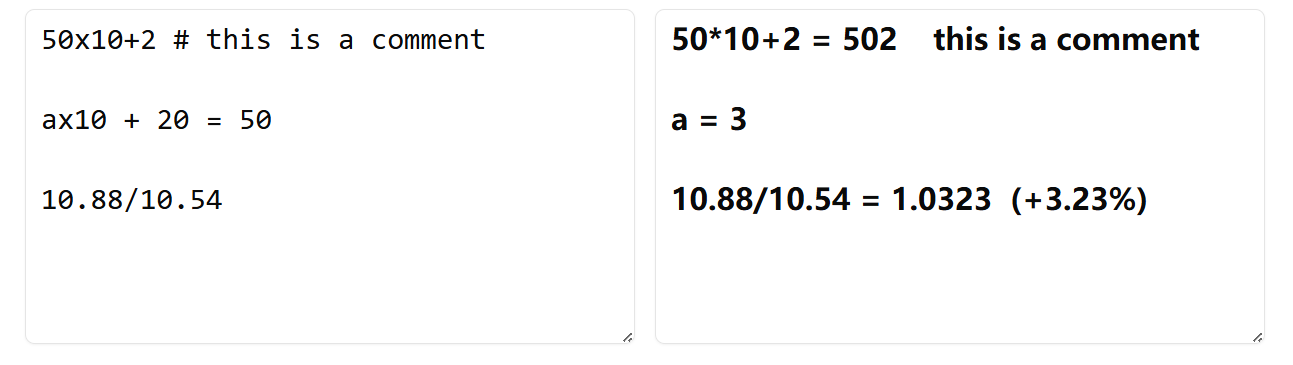
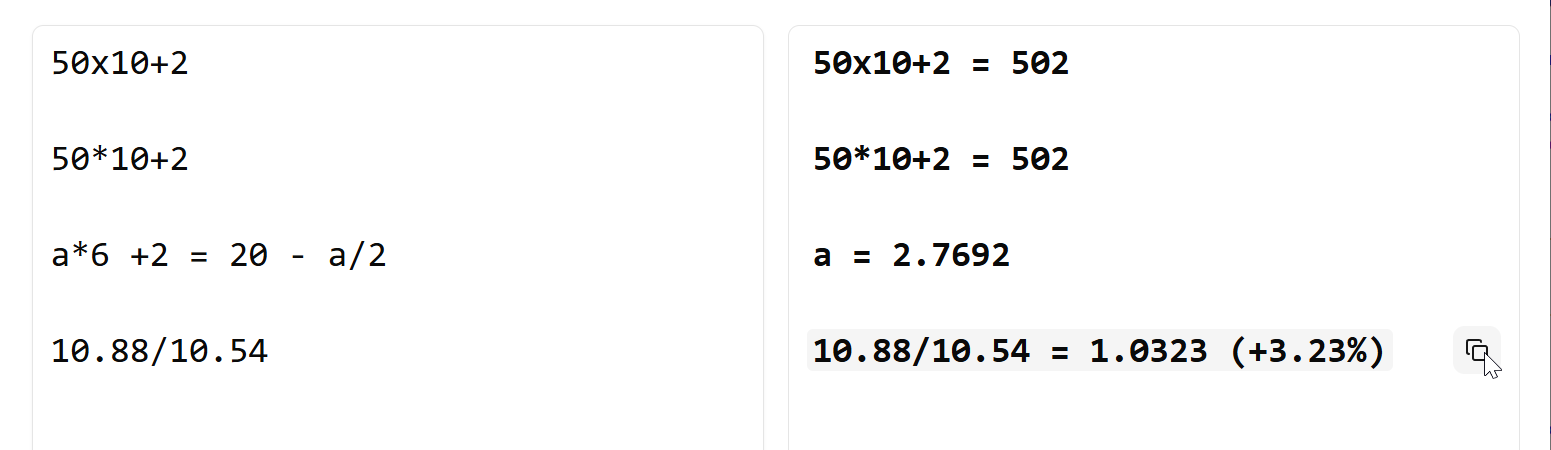
one click copy

diff --git a/src/components/TextCalcApp.tsx b/src/components/TextCalcApp.tsx
@@ -1,29 +1,39 @@
 import { evaluate, format, MathType } from 'mathjs';
 import { Textarea } from "@/components/ui/textarea";
 import { useState } from 'react';
-import { Configs } from '@/Conf';
-
-
+import { Configs } from '@/conf';
+import { Button } from '@/components/ui/button';
+import { Copy, Check } from 'lucide-react';
 
 export function TextCalcApp() {
-    // Initialize state with data from localStorage, or default values
-    const [lines, setLines] = useState<{ input: string; result: string }>(() => {
+    const [lines, setLines] = useState<{ input: string; result: string[] }>(() => {
         const savedInput = localStorage.getItem('calcInput') || '';
         return {
             input: savedInput,
-            result: savedInput ? calculateResults(savedInput) : '' // Calculate only if needed
+            result: savedInput ? calculateResults(savedInput) : []
         };
     });
+    const [copiedLineIndex, setCopiedLineIndex] = useState<number | null>(null);
+    // --- 用于追踪鼠标悬停的行 ---
+    const [hoveredLineIndex, setHoveredLineIndex] = useState<number | null>(null);
 
-
-
-    // Function to calculate results and update state
     const handleInputChange = (value: string) => {
-        const resText = calculateResults(value)
-        setLines({ input: value, result: resText });
+        const resArray = calculateResults(value)
+        setLines({ input: value, result: resArray });
         localStorage.setItem('calcInput', value);
     };
-
+    const handleCopy = (textToCopy: string, index: number) => {
+        if (!textToCopy.trim()) return;
+        const resultPart = textToCopy
+        navigator.clipboard.writeText(resultPart).then(() => {
+            setCopiedLineIndex(index);
+            setTimeout(() => {
+                setCopiedLineIndex(null);
+            }, 2000);
+        }).catch(err => {
+            console.error('无法复制文本: ', err);
+        });
+    };
     return (
         <div className="container mx-auto p-4 grid grid-cols-2 gap-4 ">
             <div className="flex flex-col space-y-2 ">
@@ -31,19 +41,85 @@ export function TextCalcApp() {
                     value={lines.input}
                     onChange={(e) => handleInputChange(e.target.value)}
                     placeholder={Configs.DefaultTxt}
-                    className="w-full min-h-[calc(90vh-1rem)] md:text-2xl font-mono"
+                    // 对齐修正 "leading-8" 与右侧 h-8 对应，确保每行高度一致
+                    className="w-full min-h-[calc(90vh-1rem)] md:text-2xl font-mono leading-8"
                 />
             </div>
+            
             <div className="flex flex-col space-y-2">
-                <Textarea
-                    value={lines.result}
-                    readOnly
-                    className="w-full min-h-[calc(90vh-1rem)]  font-bold  md:text-2xl"
-                />
+                {/* 对齐修正 使用与Textarea相同的 px-3 py-2, 并继承字体和行高样式 */}
+                <div className="w-full min-h-[calc(90vh-1rem)] font-bold md:text-2xl font-mono leading-8 px-3 py-2 border bg-background rounded-md overflow-y-auto">
+                    {lines.result.map((line, index) => (
+                        // 对齐修正 `h-8` 确保此容器高度与 `leading-8` 的行高完全匹配
+                        <div
+                            key={index}
+                            className="group flex justify-between items-center h-8" 
+                        >
+                            {/* 使用 <pre> 保留空格，font-bold 让结果突出 */}
+                            <pre className="font-bold">
+                                {/* --- 使用 span 包裹文本，并根据悬停状态动态应用样式 --- */}
+                                <span className={`transition-colors duration-150 rounded px-1 ${
+                                    hoveredLineIndex === index ? 'bg-muted' : 'bg-transparent'
+                                }`}>
+                                    {/* --- 对齐修正: 处理空行 --- */}
+                                    {/* 如果行为空，渲染一个空格，使其占据一行的高度 */}
+                                    {line || <>&nbsp;</>}
+                                </span>
+                            </pre>
+                            {line.trim() && (
+                                <Button
+                                    variant="ghost"
+                                    size="icon"
+                                    className="h-8 w-8 text-muted-foreground opacity-0 group-hover:opacity-100 transition-opacity"
+                                    onClick={() => handleCopy(line, index)}
+                                    // --- 鼠标进入和离开事件，用于更新悬停状态 ---
+                                    onMouseEnter={() => setHoveredLineIndex(index)}
+                                    onMouseLeave={() => setHoveredLineIndex(null)}
+                                >
+                                    {copiedLineIndex === index ? (
+                                        <Check className="h-4 w-4 text-green-500" />
+                                    ) : (
+                                        <Copy className="h-4 w-4" />
+                                    )}
+                                    <span className="sr-only">复制此行</span>
+                                </Button>
+                            )}
+                        </div>
+                    ))}
+                </div>
             </div>
         </div>
     );
 }
+
+// --- 5. 修改计算函数: 返回 string[] 而不是 string ---
+const calculateResults = (value: string): string[] => { // <-- 返回类型改为 string[]
+
+    const inputLines = value.split('\n');
+    const resultLines = [];
+    for (const line of inputLines) {
+        const { lineWithoutComment, comment } = HandleOneLine(line);
+        if (lineWithoutComment === "") {
+            // 如果只有注释或为空行，也推送，以保持行号对应
+            resultLines.push(comment ? `# ${comment}` : '');
+            continue;
+        }
+        if (/^\d+(\.\d+)?$/.test(lineWithoutComment)) {
+            // 如果是纯数字，直接推入
+            resultLines.push(lineWithoutComment);
+            continue;
+        }
+        let result = GetLineNoCommentResult(lineWithoutComment);
+        if (comment) {
+            result += `    # ${comment}`;
+        }
+        resultLines.push(result);
+    }
+    return resultLines; // <-- 直接返回数组
+};
+
+
+
 
 function formatEvalResultNumber(evalResult: number, needPercent: boolean): string {
     if (Number.isInteger(evalResult)) return evalResult.toString();
@@ -51,13 +127,13 @@ function formatEvalResultNumber(evalResult: number, needPercent: boolean): strin
     const formatted = format(evalResult, { notation: 'fixed', precision: 4 });
     let res = parseFloat(formatted).toString();
 
-    // 股票涨跌幅显示优化 假如比例值处在[70%, 130%]时显示具体的百分比
+    // 股票涨跌幅显示优化 假如比例值处在[70%, 130%]时显示具体的百分比 实际上A股日内涨跌幅是20%以内 30%能满足大部分情况
     if (Configs.ShowNumPercentDetail){  // 通过配置开启或者关闭
         if (needPercent && evalResult < 1.3 && evalResult > 0.7) {
             const temp = format(evalResult * 100 - 100, { notation: 'fixed', precision: 2 })
             const fix = evalResult > 1 ? "+" : ""
             const percent = fix + parseFloat(temp).toString() + "%";
-            res = `${res}  (${percent})`;
+            res = `${res} (${percent})`;
         }
     }
     return res
@@ -82,30 +158,6 @@ function formatEvalResult(evalResult: MathType, needPercent: boolean): string {
     return "";
 }
 
-// Function to calculate results
-const calculateResults = (value: string): string => {
-    value = value.replaceAll('x', '*'); // 乘法符号 "3x3" 等同于 "3*3"
-
-    const inputLines = value.split('\n');
-    const resultLines = [];
-    for (const line of inputLines) {
-        const { lineWithoutComment, comment } = HandleOneLine(line);
-        if (lineWithoutComment === "") {
-            resultLines.push(comment);
-            continue;
-        }
-        if (/^\d+(\.\d+)?$/.test(lineWithoutComment)) {
-            resultLines.push(lineWithoutComment);
-            continue;
-        }
-        let result = GetLineNoCommentResult(lineWithoutComment);
-        if (comment) {
-            result += `    ${comment}`;
-        }
-        resultLines.push(result);
-    }
-    return resultLines.join('\n')
-};
 
 /** 分解成注释和公式两部分 */
 function HandleOneLine(line: string) {
@@ -125,10 +177,13 @@ function HandleOneLine(line: string) {
 
 function GetLineNoCommentResult(inpLine: string) {
     let result = '';
+    // --- 创建一个仅用于计算的副本，将 x 替换为 * ---
+    const lineForCalc = inpLine.replaceAll('x', '*');
+
     if (inpLine.includes('a') && inpLine.includes('=')) {
         try { // 尝试解方程
-            result = solveEquation(inpLine);
-            result = `a = ${result}`
+            result = solveEquation(lineForCalc);
+            result = `a = ${result}` // 你的代码是 a=... 我加了空格
         } catch (error) {
             console.log(`error: `, error)
             //如果solveEquation内部出错, 也不影响下面逻辑执行
@@ -138,10 +193,10 @@ function GetLineNoCommentResult(inpLine: string) {
     }
 
     try {
-        const needPercent = inpLine.includes('/') ? true : false
-        const evalResult = evaluate(inpLine);
+        const needPercent = lineForCalc.includes('/') ? true : false
+        const evalResult = evaluate(lineForCalc);
         const formattedResult = formatEvalResult(evalResult, needPercent);
-        result = `${inpLine} = ${formattedResult}`;
+        result = `${inpLine} = ${formattedResult}`; 
     } catch (error: any) {
         console.log(`error: `, error)
         result = `${inpLine}`; //如果发生异常 还是显示原始行
@@ -192,4 +247,3 @@ function solveEquation(equation: string): string {
     }
     return resultStr;
 }
-

diff --git a/src/components/ui/button.tsx b/src/components/ui/button.tsx
@@ -1,0 +1,59 @@
+import * as React from "react"
+import { Slot } from "@radix-ui/react-slot"
+import { cva, type VariantProps } from "class-variance-authority"
+
+import { cn } from "@/lib/utils"
+
+const buttonVariants = cva(
+  "inline-flex items-center justify-center gap-2 whitespace-nowrap rounded-md text-sm font-medium transition-all disabled:pointer-events-none disabled:opacity-50 [&_svg]:pointer-events-none [&_svg:not([class*='size-'])]:size-4 shrink-0 [&_svg]:shrink-0 outline-none focus-visible:border-ring focus-visible:ring-ring/50 focus-visible:ring-[3px] aria-invalid:ring-destructive/20 dark:aria-invalid:ring-destructive/40 aria-invalid:border-destructive",
+  {
+    variants: {
+      variant: {
+        default:
+          "bg-primary text-primary-foreground shadow-xs hover:bg-primary/90",
+        destructive:
+          "bg-destructive text-white shadow-xs hover:bg-destructive/90 focus-visible:ring-destructive/20 dark:focus-visible:ring-destructive/40 dark:bg-destructive/60",
+        outline:
+          "border bg-background shadow-xs hover:bg-accent hover:text-accent-foreground dark:bg-input/30 dark:border-input dark:hover:bg-input/50",
+        secondary:
+          "bg-secondary text-secondary-foreground shadow-xs hover:bg-secondary/80",
+        ghost:
+          "hover:bg-accent hover:text-accent-foreground dark:hover:bg-accent/50",
+        link: "text-primary underline-offset-4 hover:underline",
+      },
+      size: {
+        default: "h-9 px-4 py-2 has-[>svg]:px-3",
+        sm: "h-8 rounded-md gap-1.5 px-3 has-[>svg]:px-2.5",
+        lg: "h-10 rounded-md px-6 has-[>svg]:px-4",
+        icon: "size-9",
+      },
+    },
+    defaultVariants: {
+      variant: "default",
+      size: "default",
+    },
+  }
+)
+
+function Button({
+  className,
+  variant,
+  size,
+  asChild = false,
+  ...props
+}: React.ComponentProps<"button"> &
+  VariantProps<typeof buttonVariants> & {
+    asChild?: boolean
+  }) {
+  const Comp = asChild ? Slot : "button"
+
+  return (
+    <Comp
+      data-slot="button"
+      className={cn(buttonVariants({ variant, size, className }))}
+      {...props}
+    />
+  )
+}
+
+export { Button, buttonVariants }

diff --git a/src/main.tsx b/src/main.tsx
@@ -1,7 +1,7 @@
 import { StrictMode } from 'react'
 import { createRoot } from 'react-dom/client'
 import '@/main.css'
-import { TextCalcApp } from './components/TextCalcApp'
+import { TextCalcApp } from './components/textCalcApp'
 
 createRoot(document.getElementById('root')!).render(
     <StrictMode>

diff --git a/README.md b/README.md
@@ -22,9 +22,11 @@ A demo page deployed using Cloudflare Pages -> [Cloudflare Demo URL](https://tex
 
 ![desc](images/demo-calc.png)
 
+### New Features
+**July 27, 2025: New One-Click Copy Feature**  
+Hover over any result line to reveal a copy icon. Simply click it to copy the entire line to your clipboard.
 
 ### Features
-
 *   **Basic Arithmetic:** Performs addition, subtraction, multiplication, division, and other standard mathematical operations.  
 *   **Multiplication symbols:** For better **markdown** file compatibility, You can choose the multiplication symbol you like. "2*3=6" is equals to "2x3=6".
 *   **Equation Solving:** Solves linear equations with a single variable 'a'.
@@ -34,6 +36,7 @@ A demo page deployed using Cloudflare Pages -> [Cloudflare Demo URL](https://tex
 *   **Input Caching:** Caches the user's input.  Restores the input when the webpage is opened next time.
 *   **PWA Support:**  After deployment using Https, it can be installed as a local application through PWA.
 *   **Cloud Provider Pages Deployment:** Supports static deployment on various service providers' pages.
+
 
 ### Tech Stack
 
@@ -111,8 +114,11 @@ This project is licensed under the [GPL3 License](LICENSE).
 [备用地址1](https://text-calcer.edgeone.app/)
 [备用地址2](https://text-calcer.zone.id/)
 
-### 功能特性
+### 新功能
+**2025-07-27 增加一个懒人功能: 一键复制**  
+将鼠标悬停在计算结果的某一行时，会看到一个复制图标。点击它，就可以一键复制整行结果到剪贴板。
 
+### 功能特性
 *   **基础算术：** 执行加法、减法、乘法、除法和其他标准数学运算。
 *   **乘法符号：** 可以选择你喜欢的乘法符号，为了更好的markdown兼容性，字符'x'和字符'\*'都会被视为乘法符号. "2*3=6"等价于"2x3=6".
 *   **方程求解：** 求解具有单个变量 'a' 的线性方程。
@@ -121,6 +127,10 @@ This project is licensed under the [GPL3 License](LICENSE).
 *   **缓存输入内容：** 缓存用户输入的内容 下次打开网页时进行复原
 *   **PWA支持：** 使用Https部署后可以通过PWA安装到本地应用
 *   **云服务商pages部署：** 支持各种服务商的pages静态部署
+
+
+
+
 
 
 
